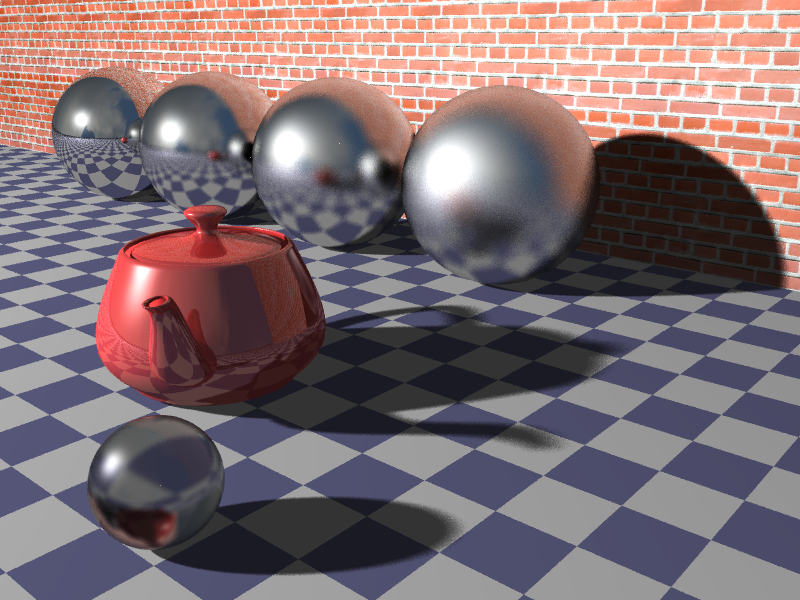
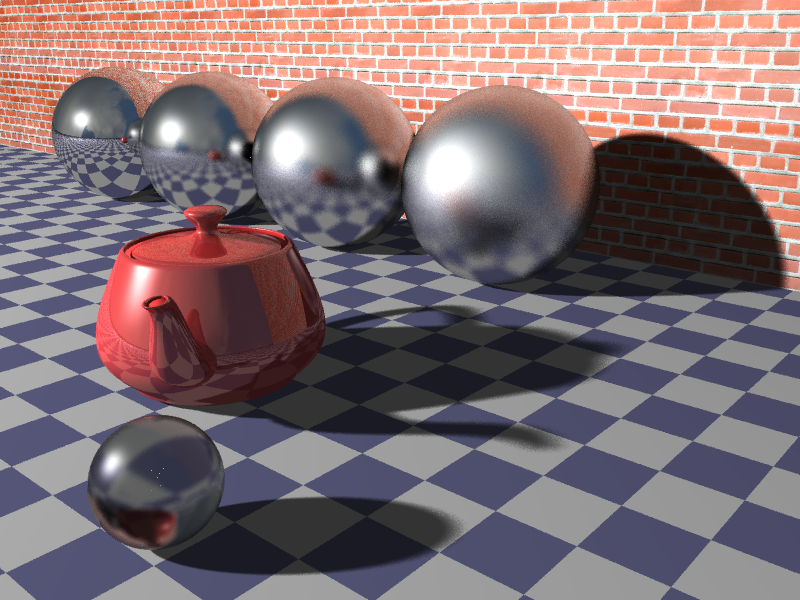
tmp save

Changed region(s): [[0.0, 0.0, 0.3438, 0.24]]

diff --git a/RayTracingRenderer/RayTracingRenderer/RayTracingRenderer.cpp b/RayTracingRenderer/RayTracingRenderer/RayTracingRenderer.cpp
@@ -28,11 +28,11 @@ TextureList textureList;
 #define RAYPERPIXEL 4
 #define MAXSAMPLECOUNT 3
 #define SHADOWBIAS 0.0005f
-#define SAMPLEVARIENCE 0.0001f
+#define SAMPLEVARIENCE 0.0003f
 #define HALFOFPIXELRATIO 0.5f
 #define RAYPERPIXELFORBLUREFFECT 256
 #define RAYPERPIXELFORGLOSSINESS 8
-#define RAYPERPIXELFORSHADOW 16
+#define RAYPERPIXELFORSHADOW 64
 
 //#define NOANTIALIASING
 #define ANTIALIASING
@@ -313,6 +313,53 @@ void BeginRender() {
 void StopRender() {
 }
 
+Color TraverseReflectionAndRefraction2(Node * traversingnode, Ray ray, HitInfo & hit, int bounce)
+{
+	Node * currentnode = traversingnode;
+	Ray currentray = ray;
+
+	Node * previousnode;
+	Ray previousray;
+
+	int numberofchildren = currentnode->GetNumChild();
+	int i = 0;
+	int j = 0;
+
+	while (j < numberofchildren)
+	{
+		previousnode = currentnode;
+		previousray = currentray;
+
+		while (i < numberofchildren)
+		{
+			currentnode = previousnode;
+			currentray = previousray;
+
+			currentnode = currentnode->GetChild(i);
+			currentray = currentnode->ToNodeCoords(currentray);
+
+			if (currentnode->GetNodeObj() != nullptr)
+			{
+				if (currentnode->GetNodeObj()->IntersectRay(currentray, hit, 0))
+				{
+					hit.node = currentnode;
+					currentnode->FromNodeCoords(hit);
+				}
+			}
+			i++;
+		}
+
+		numberofchildren = previousnode->GetNumChild();
+		if (numberofchildren == 0)
+		{
+			break;
+		}
+
+		currentnode = previousnode->GetChild(j);
+		currentray = currentnode->ToNodeCoords(previousray);
+		j++;
+	}
+}
 
 
 Color TraverseReflectionAndRefraction(Node * traversingnode, Node * node, Ray originalray, Ray ray, HitInfo & hit, int bounce)
